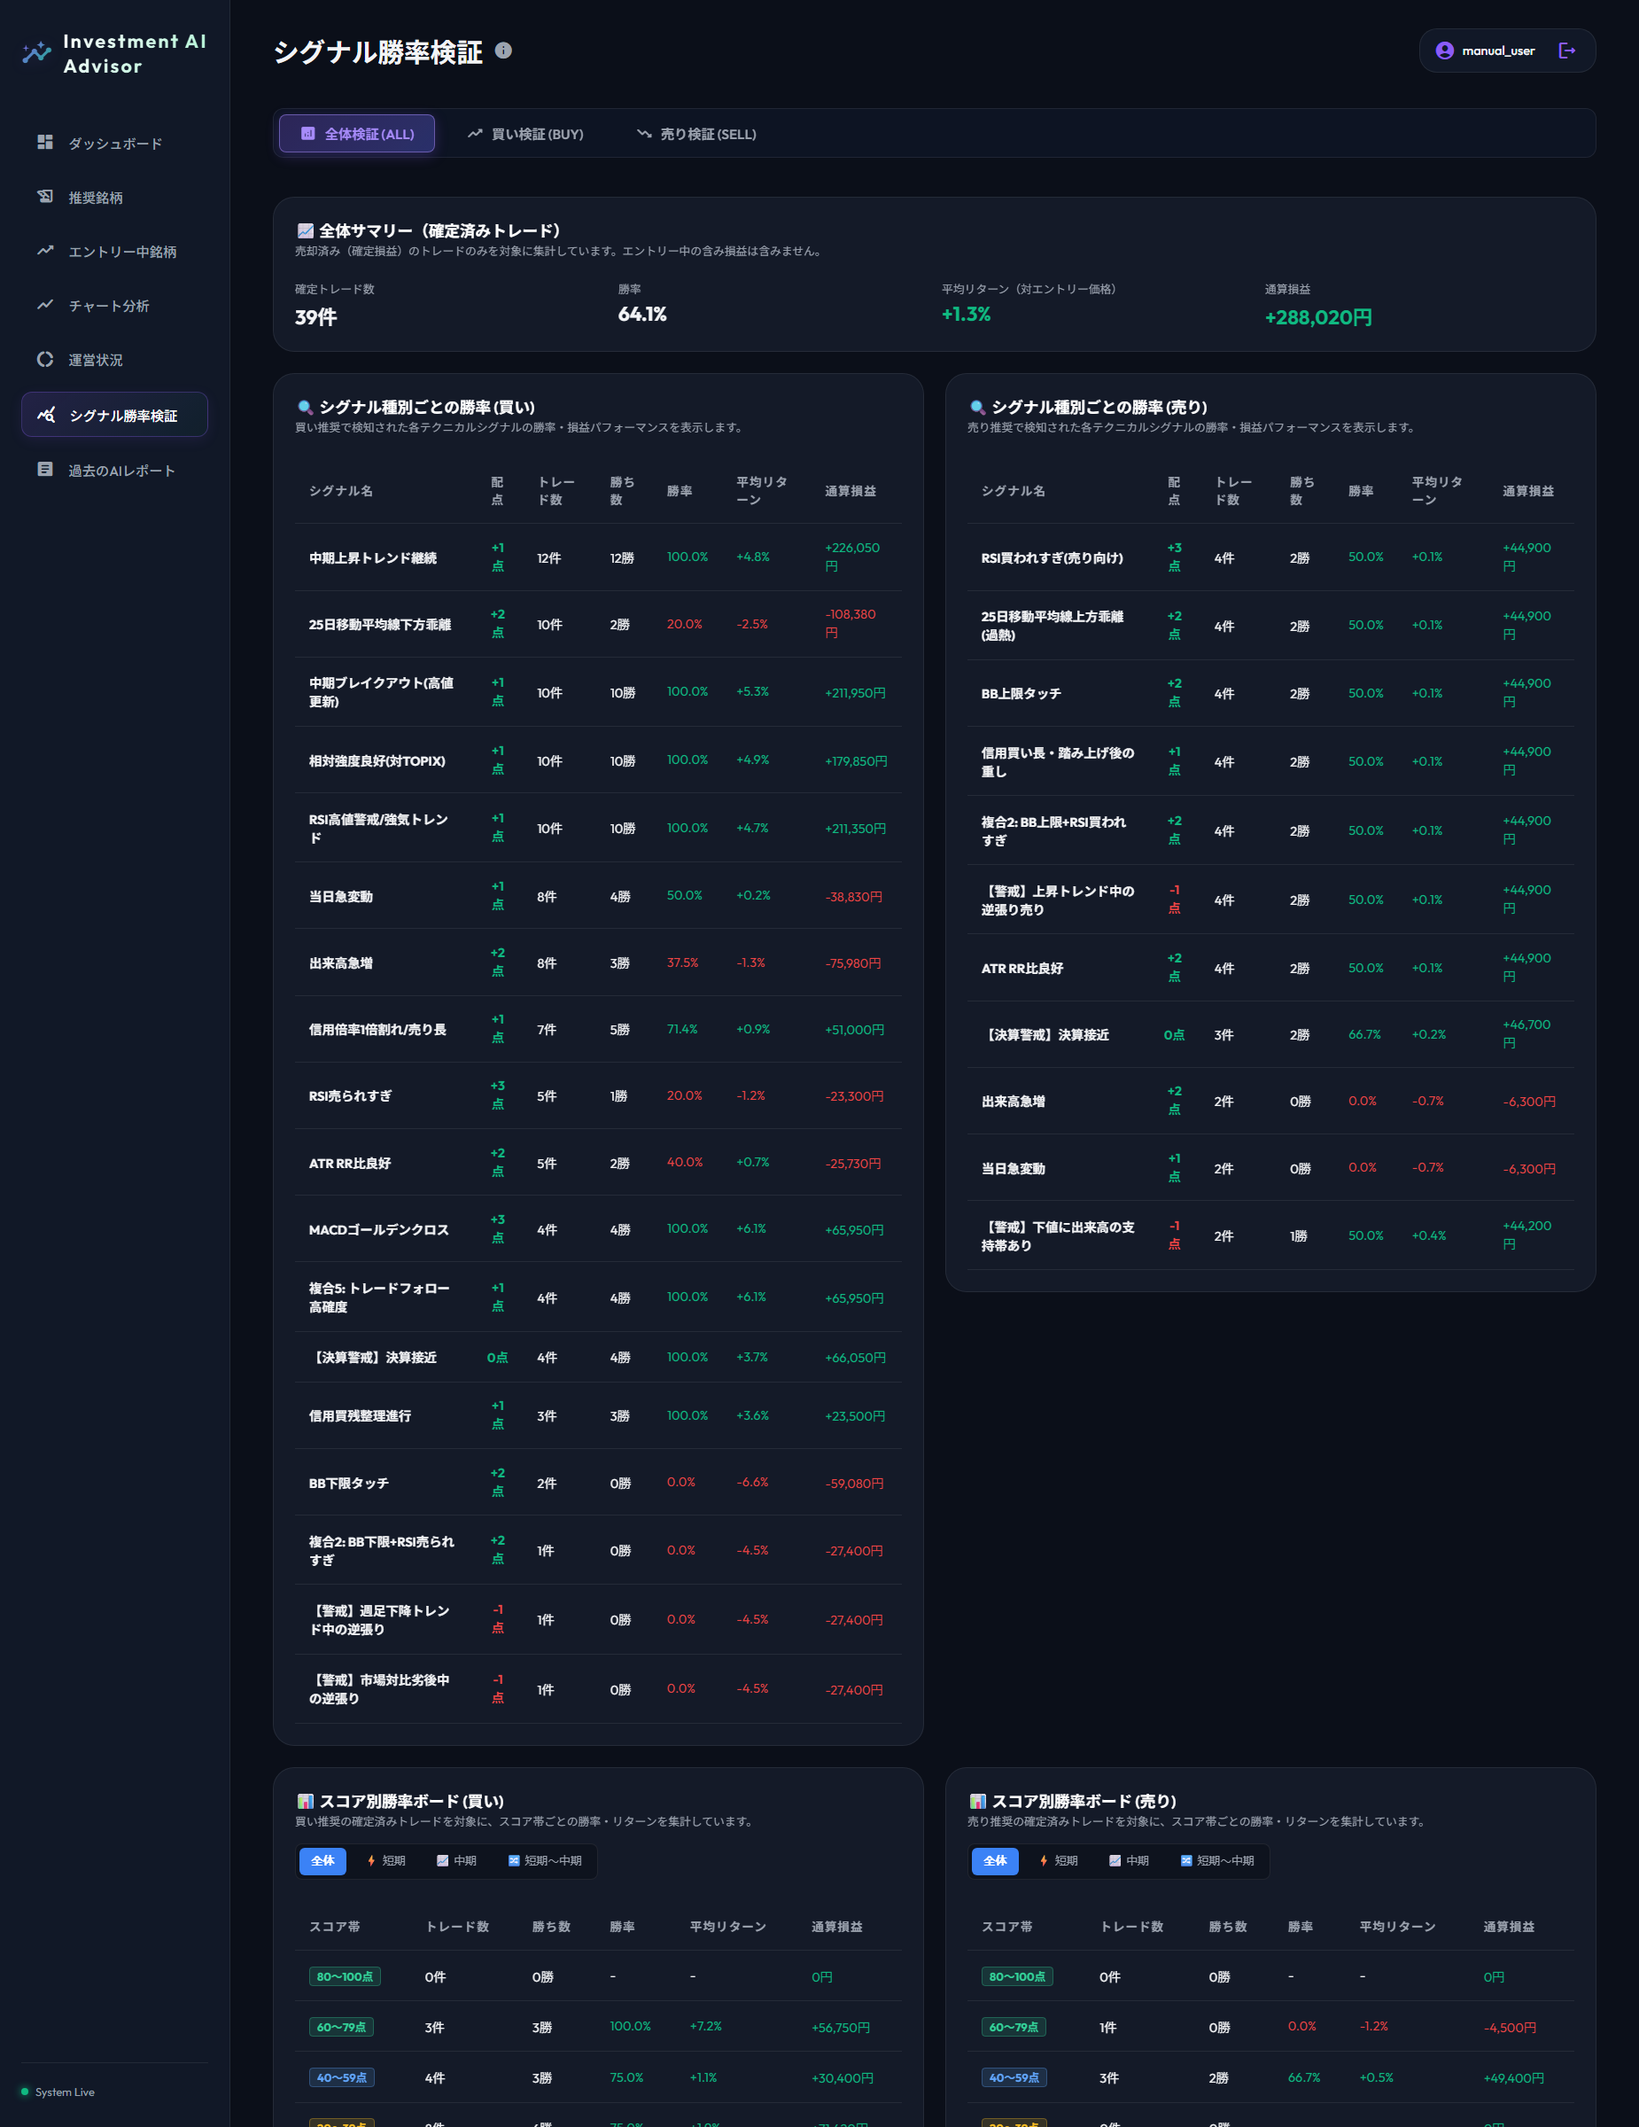
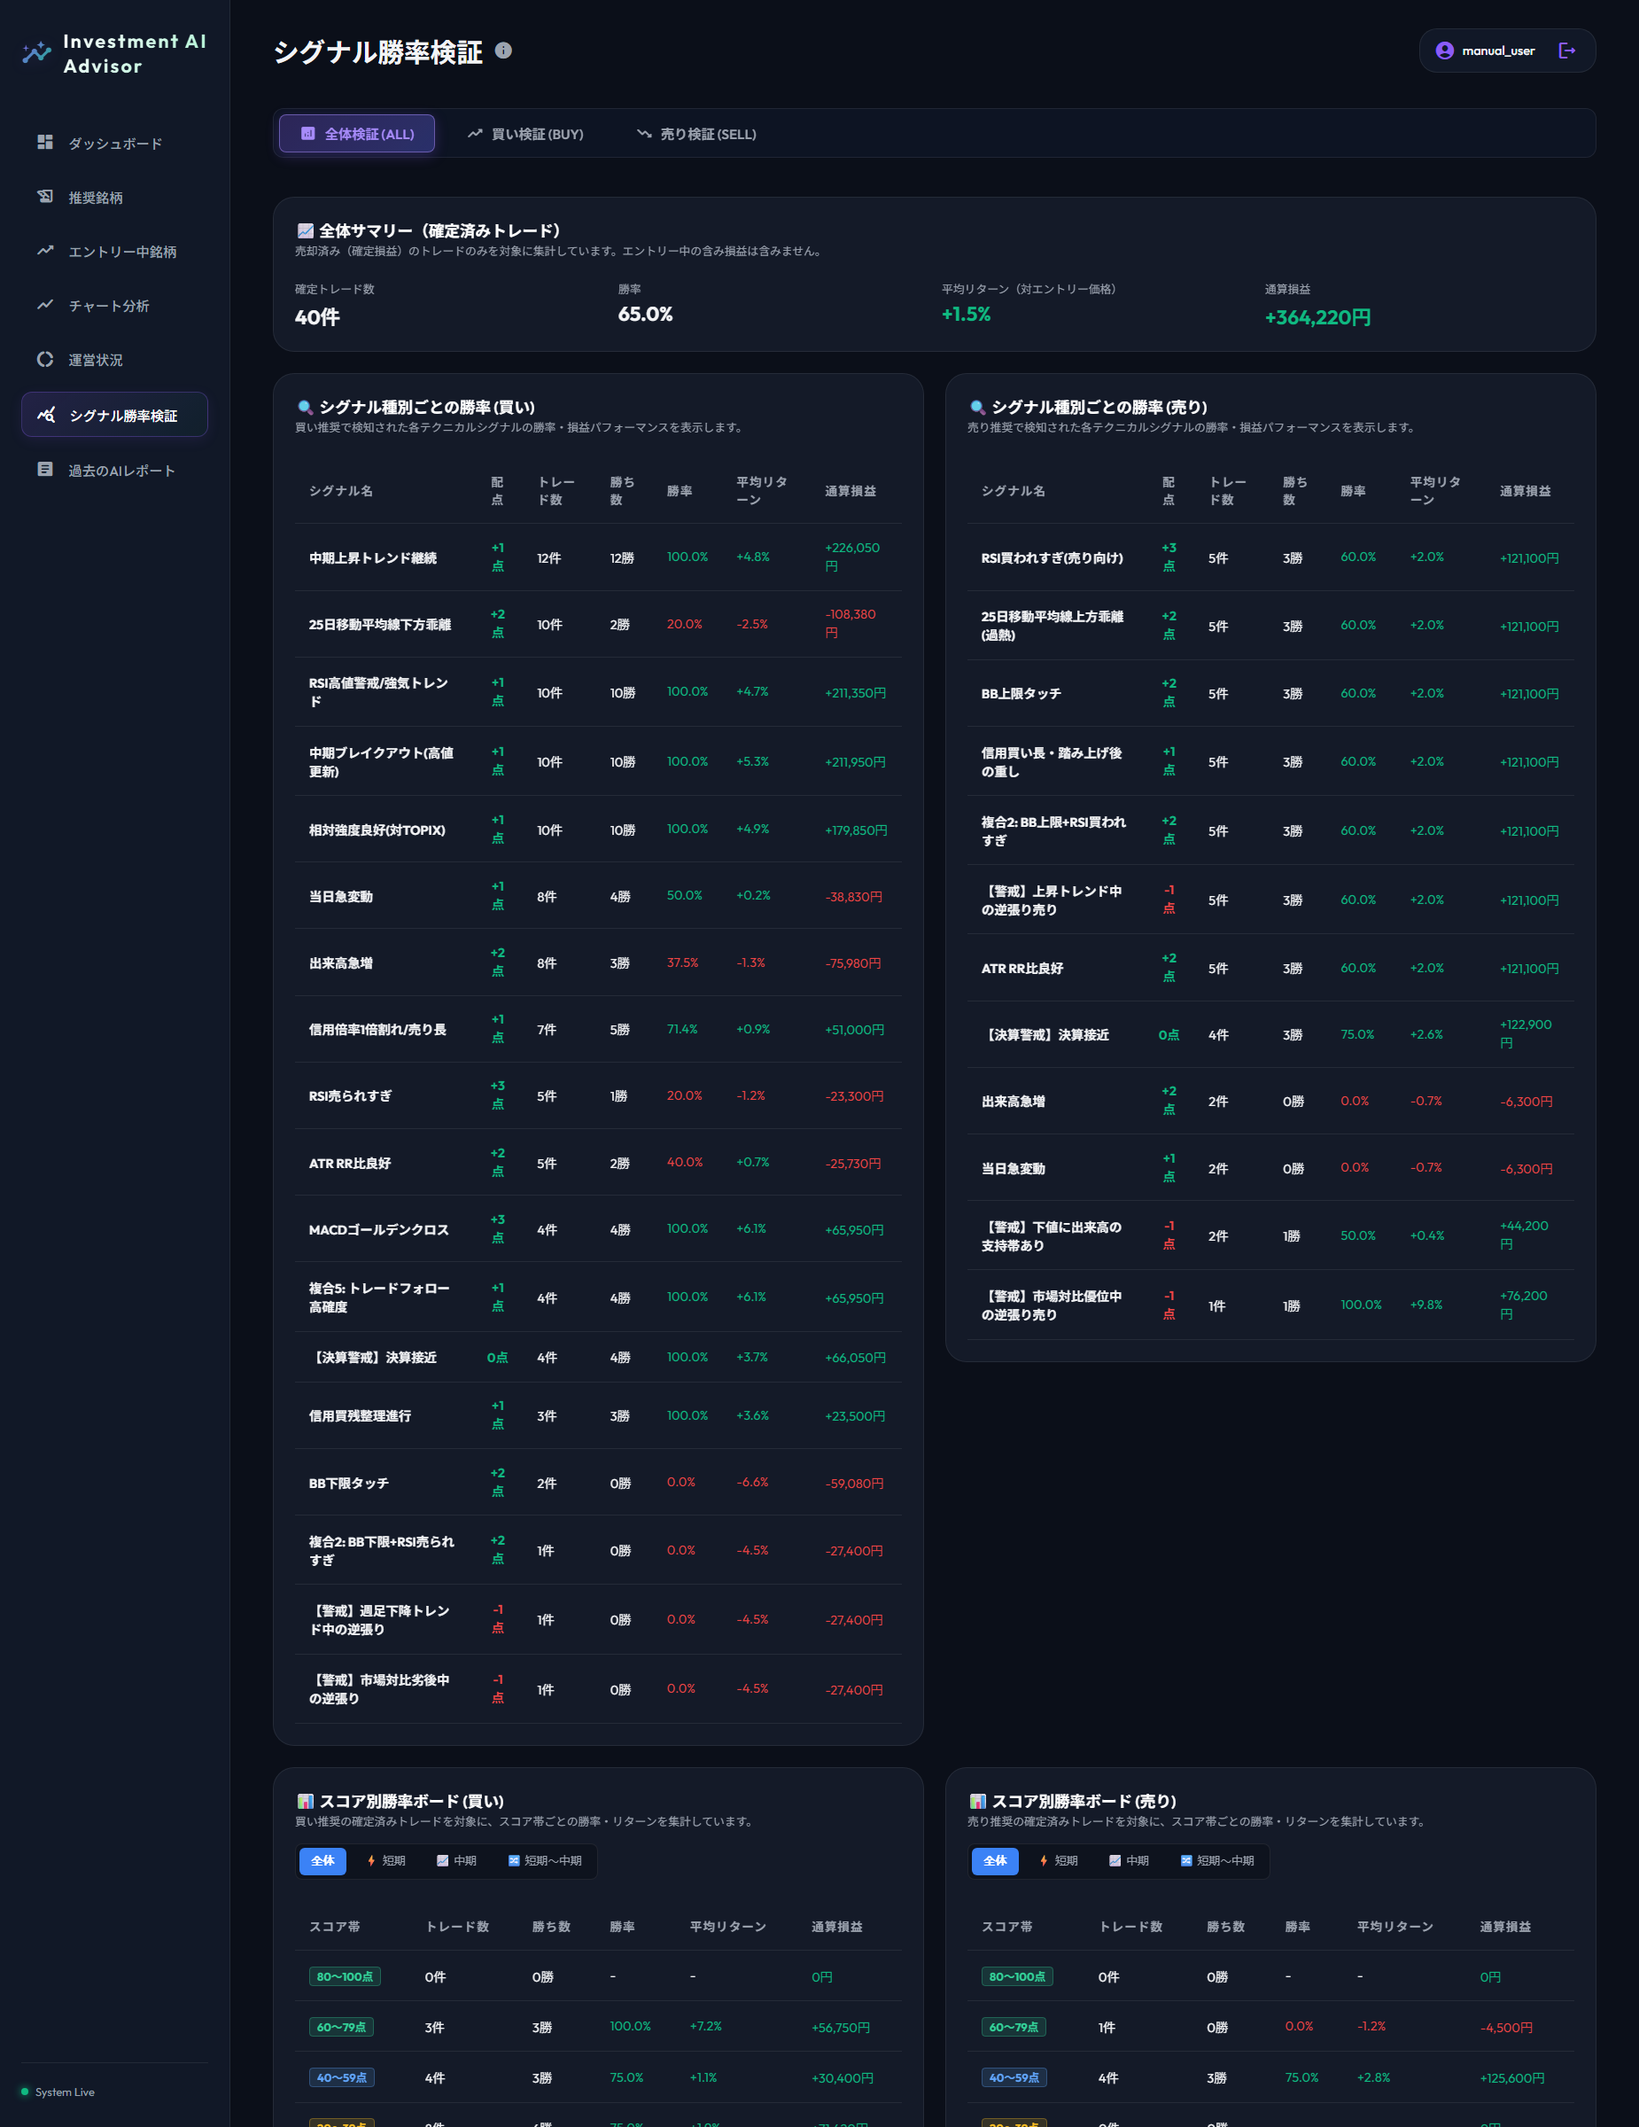
パスを修正

diff --git a/docs/external/capture_manual_screenshots.js b/docs/external/capture_manual_screenshots.js
@@ -2,10 +2,50 @@ const { chromium } = require('playwright');
 const path = require('path');
 const fs = require('fs');
 
+// DBに直接テスト用売却履歴を挿入するためのモジュール取得
+let dbHelpers = null;
+try {
+  dbHelpers = require('../../src/workflow/core/db.js');
+} catch (e) {
+  console.log('db.js module require note:', e.message);
+}
+
 async function captureScreenshots() {
   const outputDir = path.join(__dirname, 'images');
   if (!fs.existsSync(outputDir)) {
     fs.mkdirSync(outputDir, { recursive: true });
+  }
+
+  // DBシードの直接実行
+  if (dbHelpers && dbHelpers.getUserByUsername) {
+    try {
+      const user = await dbHelpers.getUserByUsername('manual_user');
+      if (user) {
+        const today = new Date().toISOString().split('T')[0];
+        const recResult = await dbHelpers.addCustomRecommendation(
+          '7203.T',
+          'トヨタ自動車',
+          2500,
+          2500,
+          100,
+          'テストエントリー',
+          today,
+          '景気敏感',
+          user.id,
+          'BUY'
+        );
+        console.log('addCustomRecommendation result:', recResult);
+
+        const recs = await dbHelpers.getAllRecommendations(user.id);
+        if (recs && recs.length > 0) {
+          const targetRec = recs.find((r) => r.ticker === '7203.T') || recs[0];
+          const sellRes = await dbHelpers.sellRecommendation(targetRec.id, 50, 2750, user.id, today);
+          console.log('🎉 Successfully seeded test trade via DB helpers!', sellRes);
+        }
+      }
+    } catch (e) {
+      console.log('Direct DB seeding error:', e.message);
+    }
   }
 
   const browser = await chromium.launch({ headless: true });
@@ -56,6 +96,55 @@ async function captureScreenshots() {
       await page.waitForTimeout(3000);
     } else {
       console.log('Already logged in, bypassing login form fill.');
+    }
+
+    // 各種モーダル撮影で必要な「エントリー中銘柄」および「売却履歴」をAPI経由で事前にデータ追加しておく
+    try {
+      console.log('Seeding initial trade and recommendation data via API...');
+      await page.evaluate(async () => {
+        const token = localStorage.getItem('token');
+        if (!token) return;
+        
+        // 1. エントリー追加
+        const addRes = await fetch('/api/recommendations/custom', {
+          method: 'POST',
+          headers: {
+            'Content-Type': 'application/json',
+            'Authorization': `Bearer ${token}`
+          },
+          body: JSON.stringify({
+            ticker: '7203.T',
+            entryPrice: 2500,
+            quantity: 100,
+            recommendationType: 'BUY',
+            entryDate: new Date().toISOString().split('T')[0],
+            memo: 'テスト用エントリー'
+          })
+        });
+        
+        if (addRes.ok) {
+          const resData = await addRes.json();
+          const itemId = resData.id || (resData.item && resData.item.id);
+          if (itemId) {
+            // 2. 追加した銘柄の一部を売却して確定取引履歴(Trade)を作成
+            await fetch(`/api/recommendations/${itemId}/sell`, {
+              method: 'POST',
+              headers: {
+                'Content-Type': 'application/json',
+                'Authorization': `Bearer ${token}`
+              },
+              body: JSON.stringify({
+                quantity: 50,
+                price: 2750,
+                sellDate: new Date().toISOString().split('T')[0]
+              })
+            });
+          }
+        }
+      });
+      await page.waitForTimeout(1000);
+    } catch (e) {
+      console.log('Data seeding failed:', e.message);
     }
 
     // 02. ダッシュボード画面
@@ -122,12 +211,13 @@ async function captureScreenshots() {
         await closeModal();
       }
 
-      // 02. ポジションサイジング計算モーダル (PositionSizingModal)
-      const calcBtn = page.locator('button:has-text("ポジションサイズ計算"), button:has-text("ポジションサイジング")').first();
-      if (await calcBtn.count() > 0) {
-        console.log('Capturing modal_02_position_sizing.png & 03b_position_sizing_modal.png...');
-        await calcBtn.click({ force: true });
-        await page.waitForTimeout(1500);
+      // 06. ポジションサイジング・意思決定メモ登録モーダル (MemoModal)
+      const entryBtn = page.locator('button.entry-btn, button:has-text("エントリー")').filter({ hasText: 'エントリー' }).first();
+      if (await entryBtn.count() > 0 && await entryBtn.isVisible()) {
+        console.log('Capturing modal_06_memo.png & modal_02_position_sizing.png...');
+        await entryBtn.click({ force: true });
+        await page.waitForTimeout(2000);
+        await page.screenshot({ path: path.join(outputDir, 'modal_06_memo.png') });
         await page.screenshot({ path: path.join(outputDir, 'modal_02_position_sizing.png') });
         await page.screenshot({ path: path.join(outputDir, '03b_position_sizing_modal.png') });
         await closeModal();
@@ -168,22 +258,52 @@ async function captureScreenshots() {
 
       // 04. 手動銘柄追加モーダル (AddCustomStockModal)
       const addStockBtn = page.locator('button:has-text("銘柄を手動追加"), button:has-text("手動追加")').first();
-      if (await addStockBtn.count() > 0) {
+      if (await addStockBtn.count() > 0 && await addStockBtn.isVisible()) {
         console.log('Capturing modal_04_add_custom_stock.png...');
         await addStockBtn.click({ force: true });
         await page.waitForTimeout(1500);
         await page.screenshot({ path: path.join(outputDir, 'modal_04_add_custom_stock.png') });
-        await closeModal();
+        
+        // 確実に入力して登録
+        const tickerInput = page.locator('#modal-ticker-input');
+        if (await tickerInput.count() > 0 && await tickerInput.isVisible()) {
+          await tickerInput.fill('7203.T');
+          await page.fill('#modal-entry-price-input', '2500');
+          const submitAddBtn = page.locator('button[type="submit"].submit-btn, form button[type="submit"]').first();
+          if (await submitAddBtn.count() > 0) {
+            await submitAddBtn.click({ force: true });
+            await page.waitForTimeout(2000);
+          } else {
+            await closeModal();
+          }
+        } else {
+          await closeModal();
+        }
       }
 
       // 05. 売却決済モーダル (SellModal)
       const sellBtn = page.locator('button:has-text("売却"), button:has-text("決済")').first();
-      if (await sellBtn.count() > 0) {
+      if (await sellBtn.count() > 0 && await sellBtn.isVisible()) {
         console.log('Capturing modal_05_sell.png...');
         await sellBtn.click({ force: true });
         await page.waitForTimeout(1500);
         await page.screenshot({ path: path.join(outputDir, 'modal_05_sell.png') });
-        await closeModal();
+        
+        // 売却を確定させて DB に確定損益・取引履歴を作成
+        const sellQtyInput = page.locator('#sell-quantity-input');
+        if (await sellQtyInput.count() > 0 && await sellQtyInput.isVisible()) {
+          await sellQtyInput.fill('100');
+          await page.fill('#sell-price-input', '2700');
+          const submitSellBtn = page.locator('button[type="submit"].submit-btn, form button[type="submit"]').first();
+          if (await submitSellBtn.count() > 0) {
+            await submitSellBtn.click({ force: true });
+            await page.waitForTimeout(2000);
+          } else {
+            await closeModal();
+          }
+        } else {
+          await closeModal();
+        }
       }
     }
 
@@ -209,14 +329,41 @@ async function captureScreenshots() {
     console.log('Navigating to 運営状況 / 運用状況...');
     const tradeNav = page.locator('.nav-btn:has-text("運営状況"), .nav-btn:has-text("運用状況")').first();
     if (await tradeNav.count() > 0) {
+      // 売却履歴データが無い場合に備えて API 経由でテスト売却履歴データを登録
+      try {
+        await page.evaluate(async () => {
+          const token = localStorage.getItem('token');
+          await fetch('/api/trades', {
+            method: 'POST',
+            headers: {
+              'Content-Type': 'application/json',
+              'Authorization': `Bearer ${token}`
+            },
+            body: JSON.stringify({
+              ticker: '7203.T',
+              name: 'トヨタ自動車',
+              trade_type: 'BUY',
+              entry_price: 2500,
+              sell_price: 2750,
+              quantity: 100,
+              realized_pnl: 25000,
+              memo: '検証用売却メモ',
+              sold_at: new Date().toISOString()
+            })
+          });
+        });
+      } catch (e) {
+        console.log('Failed to seed trade data:', e.message);
+      }
+
       await tradeNav.click();
       await page.waitForTimeout(3000);
       console.log('Capturing 06_trade_journal.png...');
       await page.screenshot({ path: path.join(outputDir, '06_trade_journal.png') });
 
       // 06. 意思決定ログ（メモ）編集モーダル (MemoModal)
-      const memoBtn = page.locator('.memo-edit-btn, button:has-text("メモ"), button:has-text("編集")').first();
-      if (await memoBtn.count() > 0) {
+      const memoBtn = page.locator('.memo-edit-btn, button:has-text("メモ")').first();
+      if (await memoBtn.count() > 0 && await memoBtn.isVisible()) {
         console.log('Capturing modal_06_memo.png...');
         await memoBtn.click({ force: true });
         await page.waitForTimeout(1500);
@@ -225,11 +372,24 @@ async function captureScreenshots() {
       }
 
       // 09. 取引履歴編集モーダル (TradeEditModal)
-      const editBtn = page.locator('button:has-text("編集"), .edit-btn').last();
-      if (await editBtn.count() > 0) {
-        console.log('Capturing modal_09_trade_edit.png...');
-        await editBtn.click({ force: true });
+      // テーブル一覧モードに切り替える
+      const tableToggleBtn = page.locator('button:has-text("一覧表")').first();
+      console.log('tableToggleBtn count:', await tableToggleBtn.count());
+      if (await tableToggleBtn.count() > 0 && await tableToggleBtn.isVisible()) {
+        console.log('Clicking 一覧表 toggle button...');
+        await tableToggleBtn.click({ force: true });
         await page.waitForTimeout(1500);
+      }
+
+      const tradeRow = page.locator('.data-table tbody tr').first();
+      console.log('tradeRow count:', await tradeRow.count());
+      if (await tradeRow.count() > 0) {
+        console.log('tradeRow isVisible:', await tradeRow.isVisible());
+      }
+      if (await tradeRow.count() > 0 && await tradeRow.isVisible()) {
+        console.log('Capturing modal_09_trade_edit.png...');
+        await tradeRow.click({ force: true });
+        await page.waitForTimeout(2000);
         await page.screenshot({ path: path.join(outputDir, 'modal_09_trade_edit.png') });
         await closeModal();
       }

diff --git a/docs/external/02_email_order_manual.md b/docs/external/02_email_order_manual.md
@@ -12,6 +12,7 @@
 本システムが自動配信する**「AI投資アドバイスメール」を受信してから、実際に個人の証券口座（SBI証券、楽天証券、松井証券等）で買い・売り注文を発注し、アプリへ結果を記録するまでの一連の運用手順**を解説します。
 
 > 💡 **ワークフローの使い分け**
+>
 > - **ワークフロー A (本書)**: 毎日の自動配信メールを中心に、手早く購入・売却判断と発注を行いたい投資家向け。
 > - **ワークフロー B**: 画面上でチャート分析やアノマリー閲覧、詳細な売買記録を行いたい方は **[Web UI画面操作手順書 (MANUAL-EXT-003)](./03_web_ui_manual.md)** を参照してください。
 

diff --git a/docs/external/00_system_overview.md b/docs/external/00_system_overview.md
@@ -410,7 +410,7 @@ erDiagram
 - **[メール受信・取引注文運用手順書](./02_email_order_manual.md)**
 - **[Web UI画面操作手順書](./03_web_ui_manual.md)**
   - Web UIのセットアップ・ログイン手順、買い環境スコアの見方、取引メモ・投資日記の使い方、トラブルシューティング
-- **[GitHub リポジトリトップ README](../../README.md)**
+- **[GitHub リポジトリトップ README](https://github.com/baann1000p-debug/stock-trading-support-tool-design-external/blob/main/README.md)**
   - インストール、動作環境、環境変数設定など
 
 ---

diff --git a/docs/external/index.md b/docs/external/index.md
@@ -14,7 +14,7 @@ hero:
       link: /functional-spec
     - theme: alt
       text: 操作手順書を読む
-      link: /user-manual
+      link: /web-ui-manual
 
 features:
   - icon: 📊
@@ -53,6 +53,6 @@ features:
 
 [システム概要仕様書を見る →](./system-overview)
 [機能仕様書を見る →](./functional-spec)
-[操作手順書を見る →](./user-manual)
+[操作手順書を見る →](./web-ui-manual)
 [Web UI画面操作手順書を見る →](./web-ui-manual)
 [メール受信・取引注文運用手順書を見る →](./email-order-manual)
